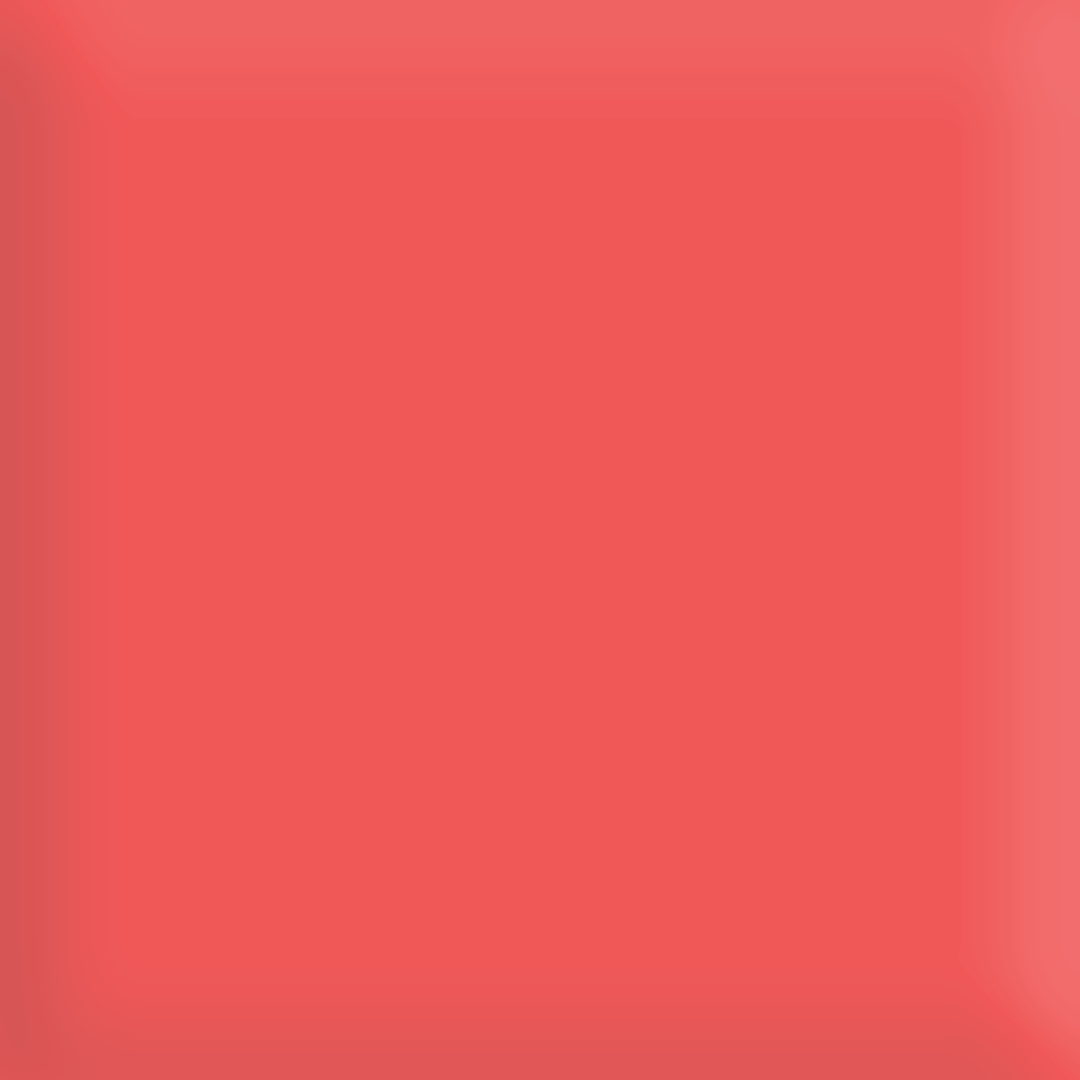
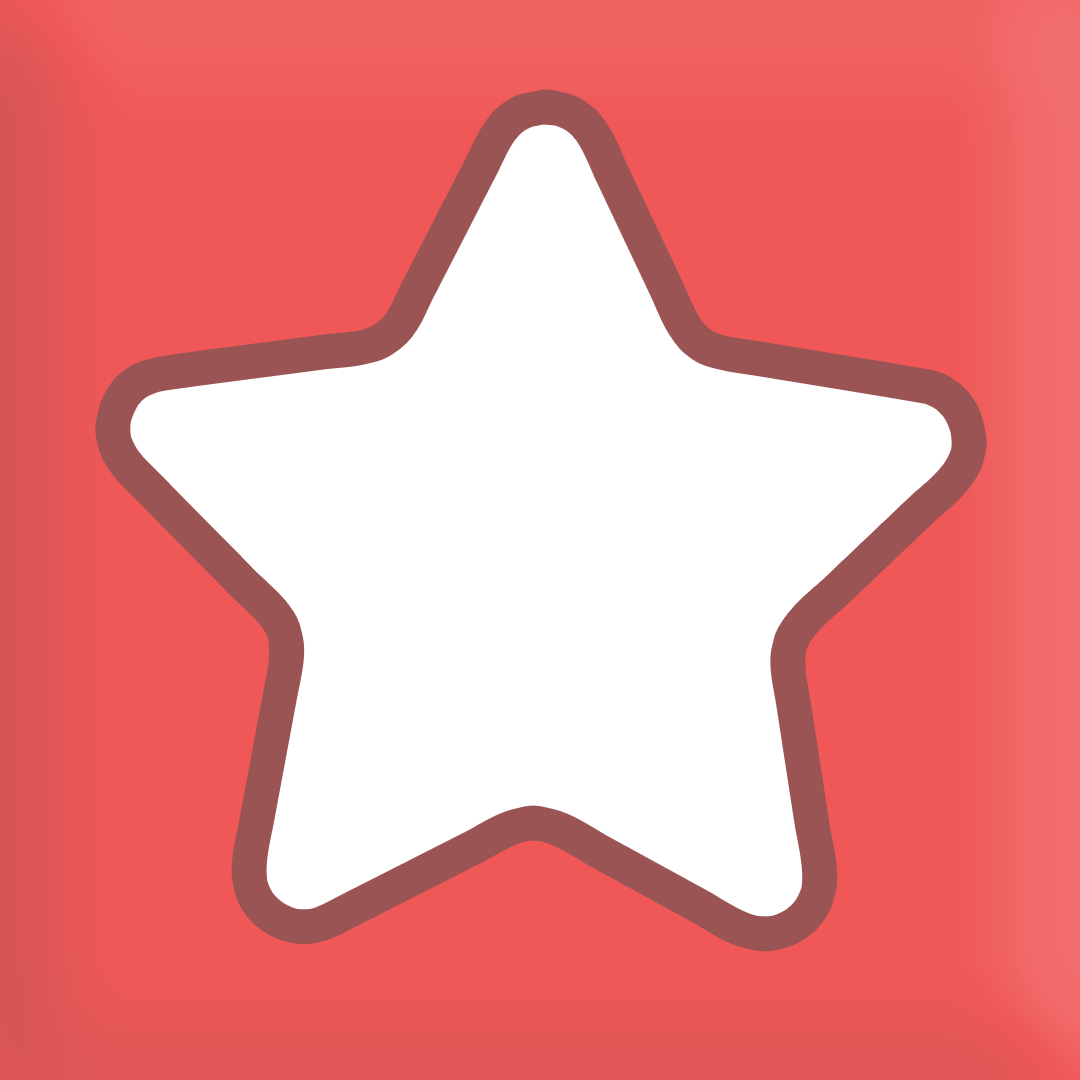
Se hicieron cambios.

diff --git a/Menu.py b/Menu.py
@@ -3,6 +3,74 @@ import numpy as np
 from Config_Botones import Boton
 from Config_Reg_Jugadores import Dato_Jugador
 
+def Obtener_Mayor_Frecuencia(Fecha_Inicio_Input, Fecha_Fin_Input):
+    FR_Juegos = '8s20sii'
+    TR_Juegos = struct.calcsize(FR_Juegos)
+    AF_JUEGOS = "JUEGOS.bin"
+    Frecuencias = {}
+
+    Fecha_Inicial = datetime.datetime.strptime(Fecha_Inicio_Input, "%d-%m-%Y")
+    Fecha_Final = datetime.datetime.strptime(Fecha_Fin_Input, "%d-%m-%Y")
+
+    if (os.path.isfile(AF_JUEGOS)) and (os.path.getsize(AF_JUEGOS) != 0):
+        JUEGOS = open(AF_JUEGOS, 'rb')
+        JUEGOS.seek(0)
+        EOF_JUEGOS = False
+        
+        while (EOF_JUEGOS == False):
+            Juegos_Bytes = JUEGOS.read(TR_Juegos)
+
+            if (Juegos_Bytes):
+                _, FechaJugCodificado, Cantidad_Tarjetas, Cantidad_Bolillo = struct.unpack(FR_Juegos, Juegos_Bytes)                
+                Fecha_Juego_Str = FechaJugCodificado.decode('utf-8').strip()
+                Fecha_Juego = datetime.datetime.strptime(Fecha_Juego_Str, "%d/%m/%Y")
+
+                Puntos_Juego = 0
+                Contador_Tarjetas = 0
+
+                while (Contador_Tarjetas < Cantidad_Tarjetas):
+                    JUEGOS.read(4)
+                    Contador_Tarjetas = Contador_Tarjetas + 1
+                
+                Contador_Bolillos = 0
+                while (Contador_Bolillos < Cantidad_Bolillo):
+                    Num_Bytes = JUEGOS.read(4)
+                    Bolillo = struct.unpack('I', Num_Bytes)[0]
+
+                    if (Fecha_Inicial <= Fecha_Juego < Fecha_Final):
+                        if (Bolillo in Frecuencias):
+                            Frecuencias[Bolillo] = Frecuencias[Bolillo] + 1
+
+                        else:
+                            Frecuencias[Bolillo] = 1
+                    
+                    Contador_Bolillos = Contador_Bolillos + 1
+                
+            else:
+                EOF_JUEGOS = True
+            
+        JUEGOS.close()
+        
+        Resultados = []
+        for Llave, Valor in Frecuencias.items():
+            Resultados.append([Llave, Valor])
+        
+        for i in range(len(Resultados)):
+            for j in range (0, len(Resultados) - i - 1):
+                if (Resultados[j][1] < Resultados[j + 1][1]):
+                    Aux = Resultados[j]
+                    Resultados[j] = Resultados[j + 1]
+                    Resultados[j + 1] = Aux
+        
+        Mayor_Frecuencia = []
+        Contador = 0
+
+        while (Contador < 10) and (Contador < len(Resultados)):
+            Mayor_Frecuencia.append(Resultados[Contador])
+            Contador = Contador + 1
+
+        return Mayor_Frecuencia
+
 def Insercion_Directa(Arreglo, Columna = 0):
     for i in range (1, len(Arreglo)):
         Actual = Arreglo[i]
@@ -86,6 +154,13 @@ def Main_Menu():
     Fecha_Input = Dato_Jugador("Fecha de Nacimiento:", (311, 80), (650,120), "Grey50", Fuente, Fuente_Negrita)
     Inicial_Input = Dato_Jugador("Inicial de Estado:", (311, 80), (650, 300), "Grey50", Fuente, Fuente_Negrita)
     Clave_Input = Dato_Jugador("Clave:", (311, 80), (650, 480), "Grey50", Fuente, Fuente_Negrita)
+
+    Cedula_Validacion_Input = Dato_Jugador("Cédula:", (311, 80), (310, 120), "Grey50", Fuente, Fuente_Negrita)
+    Clave_Validacion_Input = Dato_Jugador("Clave:", (311, 80), (650, 480), "Grey50", Fuente, Fuente_Negrita)
+
+    Verificacion = True
+
+    Texto_Error_Validacion = Fuente_Negrita.render("[ERROR]: La clave o la cedula esta erroneas.", True, "Red")
 
     Tamaño_Matriz = None
 
@@ -226,7 +301,7 @@ def Main_Menu():
         Matriz_Info = np.empty((len(Info_Jugadores), 3), dtype = object)
         Indice_Arr = 0
 
-        for Cedula_Jugador, Datos in Lista_Jugadores.items():
+        for Cedula_Jugador, Datos in Info_Jugadores.items():
             Matriz_Info[Indice_Arr] = [Cedula_Jugador, Datos["Partidas"], Datos["Puntos"]]
             Indice_Arr = Indice_Arr + 1
 
@@ -257,6 +332,13 @@ def Main_Menu():
         
         Altura_Info = Posicion_Y_Reg - 250
 
+        Texto_Frecuencia_Inactivo = Fuente_Negrita.render("MAYOR FRECUENCIA", True, "Black")
+        Texto_Frecuencia_Activo = Fuente_Negrita.render("MAYOR FRECUENCIA", True, "Black")
+        Colision_Frecuencia = Texto_Frecuencia_Inactivo.get_rect(center = (426, 120))
+
+        Fecha_Inicial_Input = Dato_Jugador("Inicio [DD-MM-AAAA]:", (311, 80), (250, 180), "Grey50", Fuente, Fuente_Negrita)
+        Fecha_Final_Input = Dato_Jugador("Final [DD-MM-AAAA]:", (311, 80), (250, 180), "Grey50", Fuente, Fuente_Negrita)
+
         Posicion_Y_Reg = 250
         Contador_Top_5 = 0
 
@@ -285,10 +367,6 @@ def Main_Menu():
     Texto_Top_5_Activo = Fuente_Negrita.render("TOP 5", True, "Black")
     Colision_Top_5 = Texto_Top_5_Inactivo.get_rect(center = (426, 120))
 
-    Texto_Frecuencia_Inactivo = Fuente_Negrita.render("MAYOR FRECUENCIA", True, "Black")
-    Texto_Frecuencia_Activo = Fuente_Negrita.render("MAYOR FRECUENCIA", True, "Black")
-    Colision_Frecuencia = Texto_Top_5_Inactivo.get_rect(center = (426, 120))
-
     Filtro_Registro = "Todos"
     Scroll_Y_Registro = 0
 
@@ -296,6 +374,7 @@ def Main_Menu():
     Escena_Inicio = "Inicio"
     Escena_Registro = "Registro"
     Escena_Registro_Usuarios = "Registro_Usuarios"
+    Escena_Ingreso_Clave = "Ingreso Clave"
     Escena_Confirmacion_Datos = "Confirmación_Datos"
     Escena_Seleccion_Tarjetas = "Seleccion_Tarjetas"
     Escena_Actual = Escena_Menu
@@ -395,8 +474,8 @@ def Main_Menu():
                             "Clave": Clave,
                         }
 
-                        Texto_Registrados_1 = Fuente_Negrita.render(f"{Jugador['Cedula']} | {Jugador['Nombre']}", True, "Black")
-                        Texto_Registrados_2 = Fuente.render(f"Sexo: {Jugador['Sexo']} | Est. {Jugador['Estado']} [{Jugador['Inicial de Estado']}]", True, "Black")
+                        Texto_Registrados_1 = Fuente_Negrita.render(f"{Jugador_Nuevo['Cedula']} | {Jugador_Nuevo['Nombre']}", True, "Black")
+                        Texto_Registrados_2 = Fuente.render(f"Sexo: {Jugador_Nuevo['Sexo']} | Est. {Jugador_Nuevo['Estado']} [{Jugador_Nuevo['Inicial de Estado']}]", True, "Black")
                         Posicion_RegJG_1 = Texto_Registrados_1.get_rect(center = (640, Posicion_Y))
                         Posicion_RegJG_2 = Texto_Registrados_2.get_rect(center = (640, Posicion_Y + 35))
 
@@ -418,6 +497,22 @@ def Main_Menu():
                         Fecha_Input.Escrito = ""
                         Inicial_Input.Escrito = ""
                         Clave_Input.Escrito = ""
+
+            elif (Escena_Actual == Escena_Ingreso_Clave):
+                Verificacion = True
+
+                Cedula_Validacion_Input.Escritura(event, "Grey50", "White", Fuente, Fuente_Negrita, 2)
+                Clave_Validacion_Input.Escritura(event, "Grey50", "White", Fuente, Fuente_Negrita, 2)
+                
+                if (VOLVER_AL_INICIO_img.Es_Presionado(event)):
+                    Escena_Actual = Escena_Inicio
+                
+                elif (ACEPTAR_img.Es_Presionado(event)):
+                    if ((Cedula_Validacion_Input.Escrito == Jugador_Seleccionado["Cedula"]) and (Clave_Validacion_Input.Escrito == Jugador_Seleccionado['Clave'])):
+                        Escena_Actual = Escena_Seleccion_Tarjetas
+                        Verificacion = True
+                    else:
+                        Verificacion = False
 
             elif (Escena_Actual == Escena_Seleccion_Tarjetas):
                 if (VOLVER_AL_INICIO_img.Es_Presionado(event)):
@@ -593,7 +688,18 @@ def Main_Menu():
                 Colision_Error = Render_Error_Clave.get_rect(topleft = (650, Posicion_Y_Error))
                 Ventana.blit(Render_Error_Clave, Colision_Error)
                 Posicion_Y_Error = Posicion_Y_Error + 20
-            
+        
+        elif (Escena_Actual == Escena_Ingreso_Clave):
+            Ventana.blit(Fondo_Menu_Registro_img, (0, 0))
+            VOLVER_AL_INICIO_img.Dibujo(Ventana)
+            ACEPTAR_img.Dibujo(Ventana)
+
+            Cedula_Validacion_Input.Dibujo(Ventana)
+            Clave_Validacion_Input.Dibujo(Ventana)
+
+            If (Verificacion == False):
+                Ventana.blit(Texto_Error_Validacion, ())
+
         elif (Escena_Actual == Escena_Seleccion_Tarjetas):
             Ventana.blit(Fondo_Menu_Inicio_img, (0, 0))
             VOLVER_AL_INICIO_img.Dibujo(Ventana)
@@ -630,10 +736,12 @@ def Main_Menu():
             elif (Filtro_Registro == "Frecuencia"):
                 Ventana.blit(Texto_Top_5_Inactivo, Colision_Top_5)
                 Ventana.blit(Texto_Frecuencia_Activo, Colision_Frecuencia)
+                Lista_Dibujo = {}
             
             else:
                 Ventana.blit(Texto_Top_5_Inactivo, Colision_Top_5)
                 Ventana.blit(Texto_Frecuencia_Inactivo, Colision_Frecuencia)
+                Lista_Dibujo = Render_Info
             
             for Objeto in Lista_Dibujo.values():
                 Ventana.blit(Objeto["Texto Info 1"], Objeto["Colision Info 1"])

diff --git a/Main.py b/Main.py
@@ -42,7 +42,7 @@ def Main (Matriz_1, Matriz_2, Titulo, Nombre, InicialEst, Cedula):
     Icono = pygame.image.load("Assets/Tombola-Icono.png")
     pygame.display.set_icon(Icono)
 
-    Fondo_Juego_img = pygame.image.load("Assets/Fondo-Menu.png").convert()
+    Fondo_Juego_img = pygame.image.load("Assets/Fondo-Juego.png").convert()
     Fondo_Juego_img = pygame.transform.scale(Fondo_Juego_img, (1280, 720))
 
     Seguir_img = Boton("Assets/Boton-Seguir.png", (141, 141), (570, 290), "Assets/Sonido-Boton-Madera.mp3")
@@ -194,7 +194,7 @@ def Main (Matriz_1, Matriz_2, Titulo, Nombre, InicialEst, Cedula):
                         Puntos_Acumulados_TXT = Fuente_Negrita.render(f"[Puntos Acumulados: {Puntos_Acumulados}]", True, "Red")
 
                         Ahora = datetime.datetime.now()
-                        Fecha_STR = Ahora.strftime("%d/%m/%Y %H:%M")
+                        Fecha_STR = Ahora.strftime("%d-%m-%Y %H:%M")
                         reto3.guardar_juego_binario(Cedula, Fecha_STR, Sorteados_Tarjeta, Bolillos_Sorteados)
                         
                         Guardar_Juego = True

diff --git a/reto3.py b/reto3.py
@@ -200,7 +200,7 @@ def ejecutar_reto_3():
                 
                 # Guardar en archivo
                 ahora = datetime.datetime.now()
-                fecha_str = ahora.strftime("%d/%m/%Y %H:%M")
+                fecha_str = ahora.strftime("%d-%m-%Y %H:%M")
                 guardar_juego_binario(cedula_ingresada, fecha_str, secuencia_para_archivo, bolillos_sorteados)
                 print("Juego guardado en JUEGOS.bin")
                 